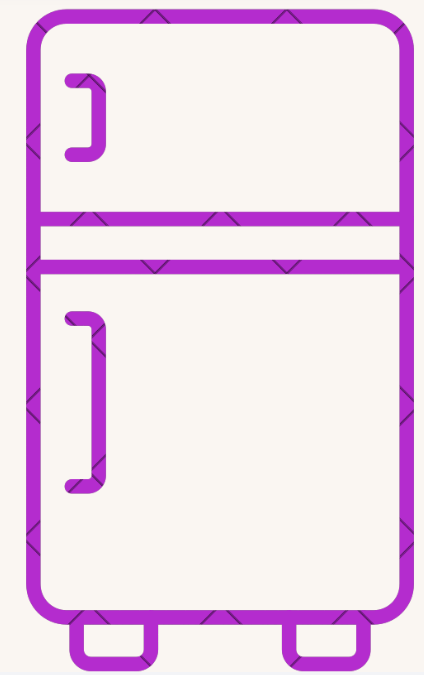
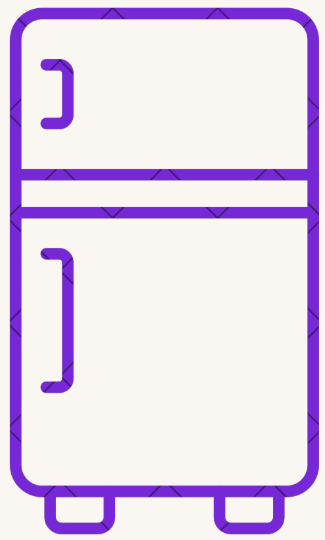
cambie de color los botones del home

Changed region(s): [[0.0308, 0.0, 0.9846, 1.0]]

diff --git a/public/css/home.css b/public/css/home.css
@@ -14,7 +14,7 @@ morado: #7828D8
 }
 
 .btn-categoria:hover {
-    border-color: #B52CD0;
+    border-color: #7828D8;
     /* borde que envuleve a los botones*/
 }
 

diff --git a/resources/views/PaginaPrincipal.blade.php b/resources/views/PaginaPrincipal.blade.php
@@ -69,7 +69,7 @@
                         <div class="circulo-categoria bg-white rounded-circle shadow-sm mb-2 d-flex align-items-center justify-content-center" style="width: 80px; height: 80px;">
                             <img src="/Imagenes inicio/foto7.png" class="img-fluid" style="max-width: 60px; max-height: 60px; object-fit: contain;">
                         </div>
-                        <span class="fw-medium" style="color: #B52CD0;">Teléfonos</span>
+                        <span class="fw-medium" style="color: #7828D8;">Teléfonos</span>
                     </a>
                 </div>
 
@@ -78,7 +78,7 @@
                         <div class="circulo-categoria bg-white rounded-circle shadow-sm mb-2 d-flex align-items-center justify-content-center" style="width: 80px; height: 80px;">
                             <img src="/Imagenes inicio/foto8.png" class="img-fluid" style="max-width: 60px; max-height: 60px; object-fit: contain;">
                         </div>
-                        <span class="fw-medium" style="color: #B52CD0;">Computadoras</span>
+                        <span class="fw-medium" style="color: #7828D8;">Computadoras</span>
                     </a>
                 </div>
 
@@ -87,7 +87,7 @@
                         <div class="circulo-categoria bg-white rounded-circle shadow-sm mb-2 d-flex align-items-center justify-content-center" style="width: 80px; height: 80px;">
                             <img src="/Imagenes inicio/foto9.png" class="img-fluid" style="max-width: 60px; max-height: 60px; object-fit: contain;">
                         </div>
-                        <span class="fw-medium" style="color: #B52CD0;">Lavarropas</span>
+                        <span class="fw-medium" style="color: #7828D8;">Lavarropas</span>
                     </a>
                 </div>
 
@@ -96,7 +96,7 @@
                         <div class="circulo-categoria bg-white rounded-circle shadow-sm mb-2 d-flex align-items-center justify-content-center" style="width: 80px; height: 80px;">
                             <img src="/Imagenes inicio/foto10.png" class="img-fluid" style="max-width: 60px; max-height: 60px; object-fit: contain;">
                         </div>
-                        <span class="fw-medium" style="color: #B52CD0;">Heladeras</span>
+                        <span class="fw-medium" style="color: #7828D8;">Heladeras</span>
                     </a>
                 </div>
 
